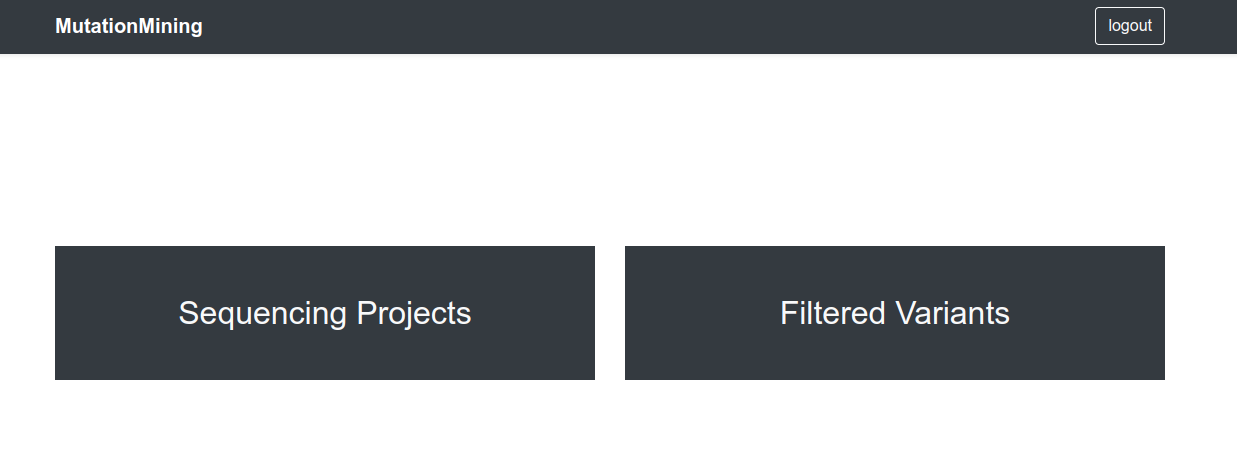
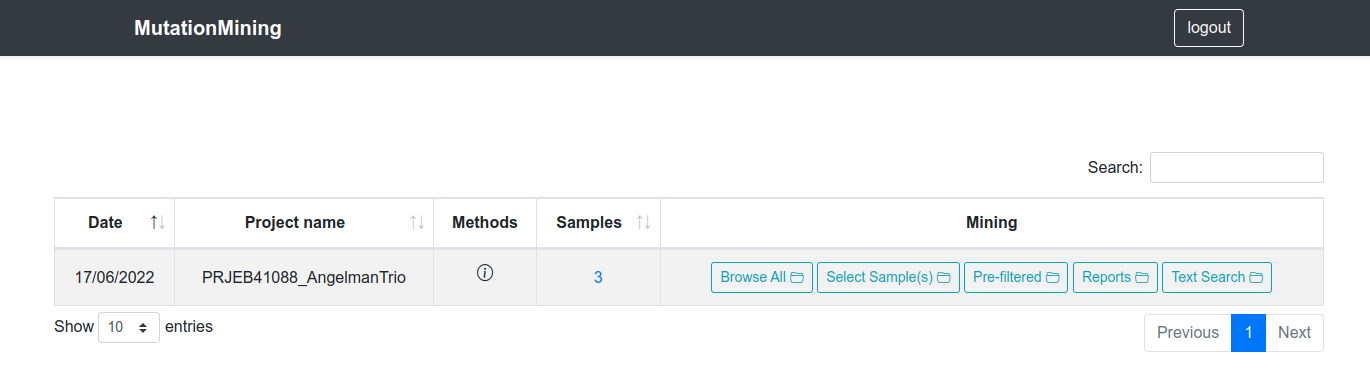
GitBook: [#52] No subject

Changed region(s): [[0.0307, 0.4974, 0.983, 0.9326], [0.0, 0.0, 1.0, 0.1554], [0.7987, 0.4041, 0.8294, 0.4663]]

diff --git a/home-page/page-1.md b/home-page/page-1.md
@@ -1,6 +1,6 @@
 # Display variants for all samples
 
-By clicking on the `open project` button, the initial page will show the following information (this is an example and the number of variants may be different in other projects)
+By clicking on the `Browse All` button, the initial page will show the following information (this is an example and the number of variants may be different in other projects)
 
 ![](../.gitbook/assets/open-project.png)
 
@@ -10,22 +10,22 @@ When you click the `OK` button or press `ENTER` on your keyboard, you will see t
 
 ### Section 1 (Filters Layout)
 
-| Field Name             | Description                                                                                                                                                                                                                                                                                                                                                                                                                 | How to add filter                                                                                                                |
-| ---------------------- | --------------------------------------------------------------------------------------------------------------------------------------------------------------------------------------------------------------------------------------------------------------------------------------------------------------------------------------------------------------------------------------------------------------------------- | -------------------------------------------------------------------------------------------------------------------------------- |
-| Chromosome             | Chromosome location of the variants                                                                                                                                                                                                                                                                                                                                                                                         | <p>Type and press Enter on the keyboard<br>Display the options and select one</p>                                                |
-| Position               | Base position of the variants, please insert a genomic interval                                                                                                                                                                                                                                                                                                                                                             | Type and press Enter on the keyboard or click on the filter button                                                               |
-| DP / AF                | <p>DP: Mean of sequencing depth of variants</p><p></p><p>AF: Allele frequency on population sequencing projects</p>                                                                                                                                                                                                                                                                                                         | Display the available filters in the list, then type and press Enter on the keyboard or click on the filter button.              |
-| Gene.refGene           | Insert (+) or select Gene regions identified with their symbol where variants could be located                                                                                                                                                                                                                                                                                                                              | <p>Type and press Enter on the keyboard<br>Display the options and select one</p>                                                |
-| CLNDN                  | Insert (+) or select [ClinVar](https://www.ncbi.nlm.nih.gov/clinvar/) terms associated with target variations.                                                                                                                                                                                                                                                                                                              | <p>Type and press Enter on the keyboard<br>Display the options and select one</p>                                                |
-| Func.refGene           | <p></p><p>Position of the variant relative to the nearest gene</p><ul><li>Exonic: in the coding region of the gene</li><li>Splicing: in the 2-bp of the “splicing junction”</li><li>NcRNA: over a non-coding transcript</li><li>UTR5, UTR3: in a 5' or 3' non-translated region</li><li>upstream/donwstream: less than 1kb from the start or end of the transcription</li><li>Intergenic: in an intergenic region</li></ul> | Select one item, several items by pressing control on the keyboard or all by clicking `select all` and press enter               |
-| ExonicFunc.refGene     | <p></p><p>Variant effect on exonic regions</p><ul><li>Synonymous: the variant does not change the resulting protein</li><li>Missense: the variant change one amino acid on the resulting protein</li><li>Nonsense: the variant generates a stop codon</li><li>FrameshiftDeletion/Insertion: the variant cause a change on the reading frame</li></ul>                                                                       | Select one item, several items by pressing control on the keyboard or all by clicking `select all` and press enter               |
-| Samples \[+] Genotype  | Associate samples to genotypes. Please, move the samples to the corresponding genotype and press the filter button                                                                                                                                                                                                                                                                                                          | Select one sample or several samples by pressing control on the keyboard, after click on genotype button and press filter button |
+| Field Name             | Description                                                                                                                                                                                                                                                                                                                                                                                                          | How to add filter                                                                                                                |
+| ---------------------- | -------------------------------------------------------------------------------------------------------------------------------------------------------------------------------------------------------------------------------------------------------------------------------------------------------------------------------------------------------------------------------------------------------------------- | -------------------------------------------------------------------------------------------------------------------------------- |
+| Chromosome             | Chromosome location of the variants                                                                                                                                                                                                                                                                                                                                                                                  | <p>Type and press Enter on the keyboard<br>Display the options and select one</p>                                                |
+| Position               | Base position of the variants, please insert a genomic interval                                                                                                                                                                                                                                                                                                                                                      | Type and press Enter on the keyboard or click on the filter button                                                               |
+| DP / AF                | <p>DP: Mean of sequencing depth of variants</p><p>AF: Allele frequency on population sequencing projects</p>                                                                                                                                                                                                                                                                                                         | Display the available filters in the list, then type and press Enter on the keyboard or click on the filter button.              |
+| Gene.refGene           | Insert (+) or select Gene regions identified with their symbol where variants could be located                                                                                                                                                                                                                                                                                                                       | <p>Type and press Enter on the keyboard<br>Display the options and select one</p>                                                |
+| CLNDN                  | Insert (+) or select [ClinVar](https://www.ncbi.nlm.nih.gov/clinvar/) terms associated with target variations.                                                                                                                                                                                                                                                                                                       | <p>Type and press Enter on the keyboard<br>Display the options and select one</p>                                                |
+| Func.refGene           | <p>Position of the variant relative to the nearest gene</p><ul><li>Exonic: in the coding region of the gene</li><li>Splicing: in the 2-bp of the “splicing junction”</li><li>NcRNA: over a non-coding transcript</li><li>UTR5, UTR3: in a 5' or 3' non-translated region</li><li>upstream/donwstream: less than 1kb from the start or end of the transcription</li><li>Intergenic: in an intergenic region</li></ul> | Select one item, several items by pressing control on the keyboard or all by clicking `select all` and press enter               |
+| ExonicFunc.refGene     | <p>Variant effect on exonic regions</p><ul><li>Synonymous: the variant does not change the resulting protein</li><li>Missense: the variant change one amino acid on the resulting protein</li><li>Nonsense: the variant generates a stop codon</li><li>FrameshiftDeletion/Insertion: the variant cause a change on the reading frame</li></ul>                                                                       | Select one item, several items by pressing control on the keyboard or all by clicking `select all` and press enter               |
+| Samples \[+] Genotype  | Associate samples to genotypes. Please, move the samples to the corresponding genotype and press the filter button                                                                                                                                                                                                                                                                                                   | Select one sample or several samples by pressing control on the keyboard, after click on genotype button and press filter button |
 
 ### Section 2 (Template Filters)
 
-When we have one or more filters selected and we want to save this information, we click on the `Create template` button in section 3.&#x20;
+When we have one or more filters selected and we want to save this information, we click on the `Create template` button in section 3.
 
-Once saved, the name of the template will be added to the drop-down list.&#x20;
+Once saved, the name of the template will be added to the drop-down list.
 
 Clicking on one of the options in this list will add the saved filters to the current project.
 
@@ -35,14 +35,14 @@ In this section the selected filters will be displayed
 
 ### Section 4 (Filter buttons)
 
-| Name button | Action |
-| :---: | --- |
-| ![](../.gitbook/assets/button-back-arrow.png) | Back to previous page |
-| ![](../.gitbook/assets/button-save.png) | Save project in the filtered variants section of the home page |
-| ![](../.gitbook/assets/button-template.png) | Save the currently selected filters to the project and add this option to the "Template filters" drop-down list |
-| ![](../.gitbook/assets/button-export.png) | Export current filtered variants in excel format |
-| ![](../.gitbook/assets/button-clean-filters.png) | Delete all selected filters and restart the project |
-| ![](../.gitbook/assets/button-filter-data.png) | Filter the variants with the filters selected in section 3 |
+|                    Name button                   | Action                                                                                                          |
+| :----------------------------------------------: | --------------------------------------------------------------------------------------------------------------- |
+|   ![](../.gitbook/assets/button-back-arrow.png)  | Back to previous page                                                                                           |
+|      ![](../.gitbook/assets/button-save.png)     | Save project in the filtered variants section of the home page                                                  |
+|    ![](../.gitbook/assets/button-template.png)   | Save the currently selected filters to the project and add this option to the "Template filters" drop-down list |
+|     ![](../.gitbook/assets/button-export.png)    | Export current filtered variants in excel format                                                                |
+| ![](../.gitbook/assets/button-clean-filters.png) | Delete all selected filters and restart the project                                                             |
+|  ![](../.gitbook/assets/button-filter-data.png)  | Filter the variants with the filters selected in section 3                                                      |
 
 ### Section 5 (Variants table)
 

diff --git a/home-page/display-variants-for-samples/README.md b/home-page/display-variants-for-samples/README.md
@@ -1,0 +1,37 @@
+# Display variants for samples
+
+When we click on the number of samples, Select Sample(s) or Reports button, a table similar to the following is displayed
+
+![](../../.gitbook/assets/samples-table.png)
+
+| Name column       | Description                                                                                                                                                                                             |
+| ----------------- | ------------------------------------------------------------------------------------------------------------------------------------------------------------------------------------------------------- |
+| Sample name       | Name of sample                                                                                                                                                                                          |
+| Results Report    | Number of total variants in each genomic database                                                                                                                                                       |
+| Individual Report | [![](../../.gitbook/assets/button-mutations.png)](./#mutations) [![](../../.gitbook/assets/button-populations.png)](./#populations) [![](../../.gitbook/assets/button-text-search.png)](./#text-search) |
+
+In this page we can perform different options
+
+### View variants table for sample(s)
+
+* **Select one or more samples** **and display the variants table**. How to do this? Click on the check box next to the sample name and then click on the Browse selected samples button. Then a window similar to the one explained in the [display variants for all samples](../page-1.md) section will appear, but only the selected samples will be displayed
+
+![](../../.gitbook/assets/samples-table-browse.png)
+
+### Mutations
+
+* [View the genomic database variants related to the sample](mutations.md)
+
+![](../../.gitbook/assets/samples-table-mutations.png)
+
+### Populations
+
+* [View prediction of possible sample origins](populations.md)
+
+![](../../.gitbook/assets/samples-table-populations.png)
+
+### Text search
+
+* [Text search in genomic databases](../text-search.md)
+
+![](../../.gitbook/assets/samples-table-text-search.png)

diff --git a/home-page/README.md b/home-page/README.md
@@ -4,7 +4,30 @@ After entering the email address correctly, you will find yourself on the follow
 
 ![](../.gitbook/assets/main-page.png)
 
-This section is divided into two points
+For this guide we have used the project PRJEB41088\_AngelmanTrio (link), each user will have an associated project that may be different from others, but the structure is the same for all of them
 
-* [Sequencing Projects](sequencing-projects.md) where the projects added to the current user will be displayed
-* [Filtered Variants](filtered-variants.md) where the filters saved by the user to a project will be displayed
+| Column Name       | Description                                           |
+| ----------------- | ----------------------------------------------------- |
+| Date              | Date of project creation                              |
+| Project Name      | Name assigned to the project                          |
+| Methods           | Project description and versions used in its creation |
+| Number of samples | Number of samples contained in the project            |
+| Mining            | Useful buttons to display different results           |
+
+#### In this section there are four possibilities
+
+* [Display variants for all samples](page-1.md)
+
+![](../.gitbook/assets/sequencing-projects-variants.png)
+
+* Open [report](display-variants-for-samples/mutations.md), [prediction of populations](display-variants-for-samples/populations.md) and variants [table by samples](display-variants-for-samples/)
+
+![](../.gitbook/assets/sequencing-projects-samples.png)
+
+* [Display projects with user-saved filters](filtered-variants.md)
+
+![](../.gitbook/assets/sequencing-projects-pre-filtered.png)
+
+* Genomic tables [text search section](text-search.md)
+
+![](../.gitbook/assets/sequencing-projects-search-text.png)

diff --git a/SUMMARY.md b/SUMMARY.md
@@ -3,10 +3,9 @@
 * [Introduction](README.md)
 * [How to access](how-to-access.md)
 * [Home Page](home-page/README.md)
-  * [Sequencing Projects](home-page/sequencing-projects.md)
-    * [Display variants for all samples](home-page/page-1.md)
-    * [Display variants for samples](home-page/sequencing-projects/display-variants-for-samples/README.md)
-      * [Mutations](home-page/sequencing-projects/display-variants-for-samples/mutations.md)
-      * [Populations](home-page/sequencing-projects/display-variants-for-samples/populations.md)
-    * [Text Search](home-page/sequencing-projects/text-search.md)
-  * [Filtered Variants](home-page/filtered-variants.md)
+  * [Display variants for all samples](home-page/page-1.md)
+  * [Display variants for samples](home-page/display-variants-for-samples/README.md)
+    * [Mutations](home-page/display-variants-for-samples/mutations.md)
+    * [Populations](home-page/display-variants-for-samples/populations.md)
+  * [Pre-Filtered Variants](home-page/filtered-variants.md)
+  * [Text Search](home-page/text-search.md)
